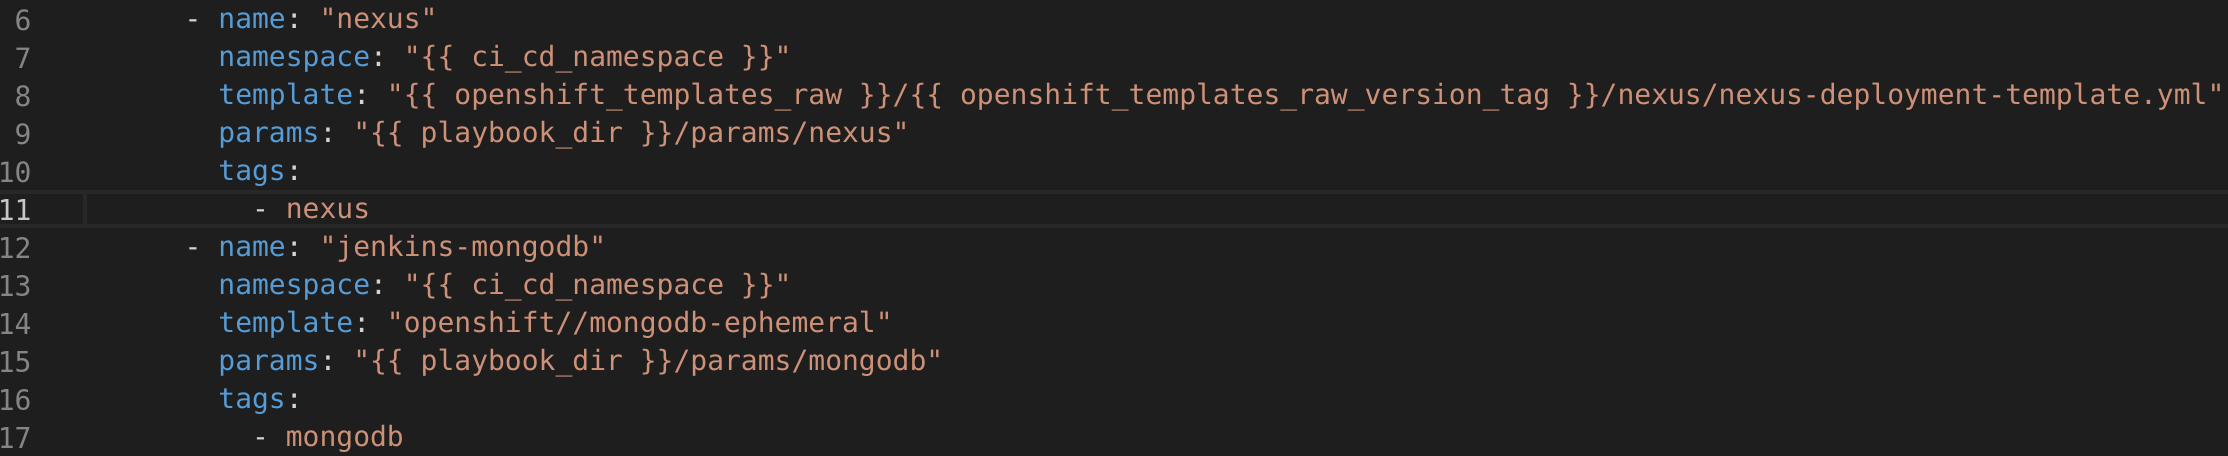
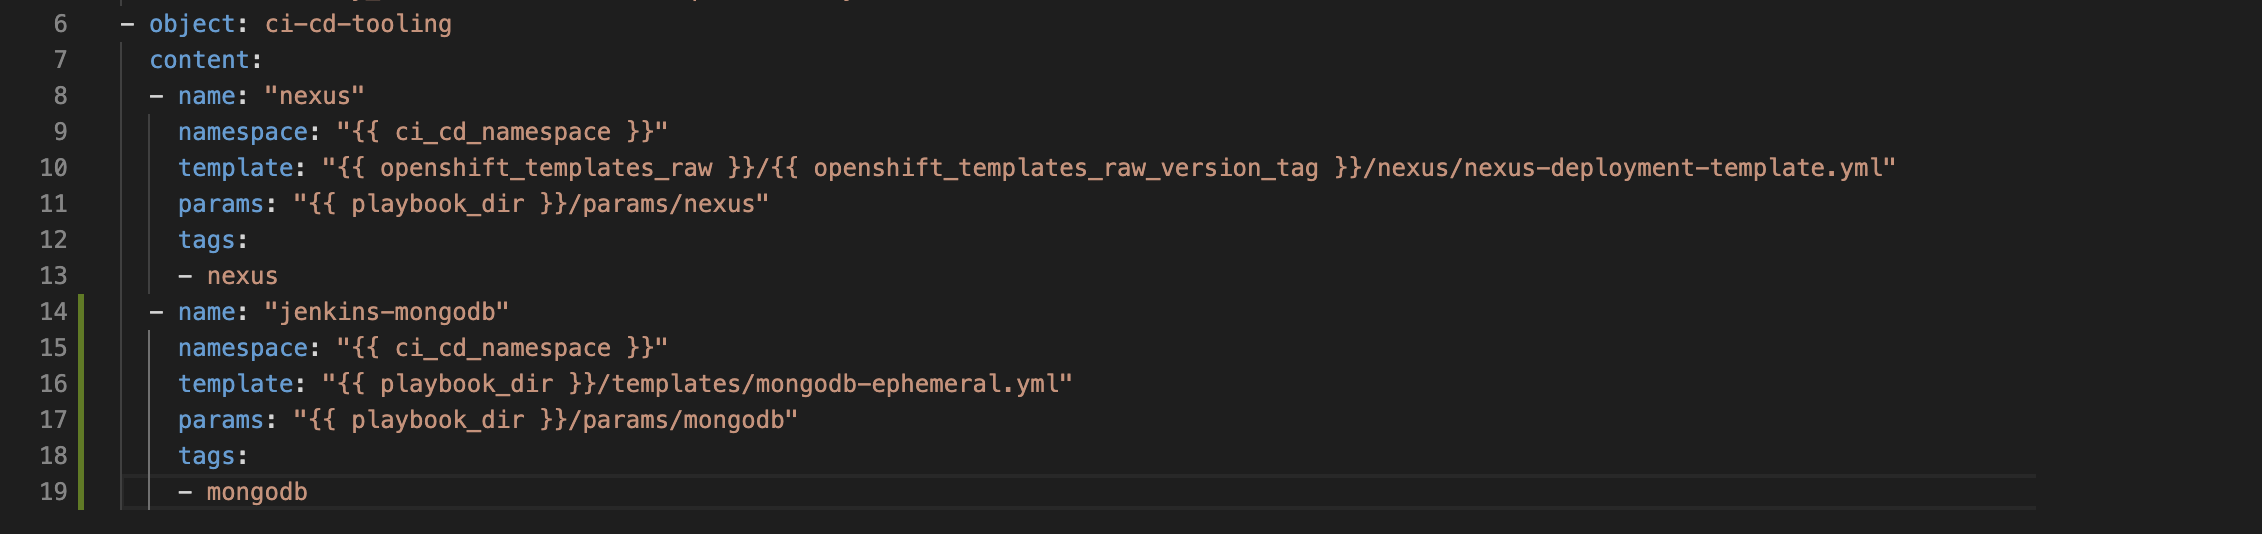
updated

diff --git a/1-the-manual-menace/README.md b/1-the-manual-menace/README.md
@@ -338,7 +338,7 @@ Select the banner and use the same password you logged into OpenShift as your lo
 ```yaml
   - name: "jenkins-mongodb"
     namespace: "{{ ci_cd_namespace }}"
-    template: "openshift//mongodb-ephemeral"
+    template: "{{ playbook_dir }}/templates/mongodb-ephemeral.yml"
     params: "{{ playbook_dir }}/params/mongodb"
     tags:
     - mongodb
@@ -372,6 +372,10 @@ ansible-playbook apply.yml -e target=tools \
 > _Create a build and deployment config for Jenkins. Add new configuration and plugins to the OpenShift default Jenkins image using s2i_
 
 1. As before; create a new set of params by creating a `params/jenkins` file and adding some overrides to the template and updating the `<YOUR_NAME>` value accordingly.
+
+```bash
+touch params/jenkins
+```
 
 <kbd>📝 *enablement-ci-cd/params/jenkins*</kbd>
 ```
@@ -428,41 +432,33 @@ jenkins-s2i
  * `build-failure-analyzer.xml` is config for the plugin to read the logs and look for key items based on a Regex. More on this in later lessons.
  * `init.groovy` contains a collection of settings jenkins configures itself with when launching
 
-4. Let's add a plugin for Jenkins to be started with, [green-balls](https://plugins.jenkins.io/greenballs). This simply changes the default `SUCCESS` status of Jenkins from Blue to Green. Append the `jenkins-s2i/plugins.txt` file with
+4. Let's add a plugin for Jenkins to be started with, [Slack](https://plugins.jenkins.io/slack/). This plugin adds support to integrate Jenkins with Slack (we may not actually use this plugin in the lab, but we've added it as an extension task if time permits). Append the `jenkins-s2i/plugins.txt` file with
 ```txt
-greenballs:1.15
+slack:2.37
 ```
-![green-balls.png](../images/exercise1/green-balls.png)
+![slack.png](../images/exercise1/slack.png)
 
-Why does Jenkins use blue to represent success? More can be found [on reddit](https://www.reddit.com/r/programming/comments/4lu6q8/why_does_jenkins_have_blue_balls/) or the [Jenkins blog](https://jenkins.io/blog/2012/03/13/why-does-jenkins-have-blue-balls/).
 
-5. Before building and deploying the Jenkins s2i; add your git credentials to it. These will be used by Jenkins to access the Git Repositories where our apps will be stored. We want Jenkins to be able to push tags to it, so write access is required. Create `params/jenkins-s2i-secret` and add the following content; replacing variables as appropriate. There is an annotation on the secret which binds the credential in Jenkins
+5. Create `params/jenkins-s2i` and add the following content; replacing variables as appropriate. These parameters will be applied to the `templates/jenkins-s2i-build-template-with-secret.yml` below in step 8, which will create the imagestream and buildconfig needed for our Jenkins image. Additionally, it will also create the `git-auth` secret in Openshift that will have your username and password crendentials for GitLab. There is an annotation on the secret which binds the credential in Jenkins (`credential.sync.jenkins.openshift.io: "true"`).
 
-<kbd>📝 *enablement-ci-cd/params/jenkins-s2i-secret*</kbd>
+```bash
+touch params/jenkins-s2i
 ```
-SECRET_NAME=gitlab-auth
-USERNAME=<YOUR_LDAP_USERNAME>
-PASSWORD=<YOUR_LDAP_PASSWORD>
-```
-where
-    * `<YOUR_LDAP_USERNAME>` is the username builder pod will use to login and clone the repo with
-    * `<YOUR_LDAP_PASSWORD>` is the password the builder pod will use to authenticate and clone the repo using
-
-
-6. Create `params/jenkins-s2i` and add the following content; replacing variables as appropriate.
 
 <kbd>📝 *enablement-ci-cd/params/jenkins-s2i*</kbd>
 ```
 SOURCE_REPOSITORY_URL=<GIT_URL>
 NAME=jenkins
 SOURCE_REPOSITORY_CONTEXT_DIR=jenkins-s2i
-SOURCE_REPOSITORY_SECRET=gitlab-auth
+SOURCE_REPOSITORY_PASSWORD=<YOUR_LDAP_PASSWORD>
+SOURCE_REPOSITORY_USERNAME=<YOUR_LDAP_USERNAME>
 ```
 where
     * `<GIT_URL>` is the full clone path of the repo where this project is stored (including the https && .git)
+    * `<YOUR_LDAP_USERNAME>` is the username builder pod will use to login and clone the repo with
+    * `<YOUR_LDAP_PASSWORD>` is the password the builder pod will use to authenticate and clone the repo using
 
-
-7. At the top of `inventory/host_vars/ci-cd-tooling.yml` file underneath the `---`, add the following:
+6. At the top of `inventory/host_vars/ci-cd-tooling.yml` file underneath the `---`, add the following:
 
 <kbd>📝 *enablement-ci-cd/inventory/host_vars/ci-cd-tooling.yml*</kbd>
 ```yaml
@@ -470,7 +466,7 @@ ci_cd:
   IMAGE_STREAM_NAMESPACE: "{{ ci_cd_namespace }}"
 ```
 
-8. Create a new object `ci-cd-builds` in the Ansible `inventory/host_vars/ci-cd-tooling.yml` to drive the s2i build configuration.
+7. Create a new object `ci-cd-builds` in the Ansible `inventory/host_vars/ci-cd-tooling.yml` to drive the s2i build configuration.
 
 <p class="tip">
 ⚡ <b>NOTE</b> ⚡ - We are using a custom jenkins template that works with latest version of OpenShift until the changes can be merged upstream.
@@ -480,22 +476,16 @@ ci_cd:
 ```yaml
 - object: ci-cd-builds
   content:
-  - name: "jenkins-s2i-secret"
-    namespace: "{{ ci_cd_namespace }}"
-    template: "{{ openshift_templates_raw }}/{{ openshift_templates_raw_version_tag }}/secrets/secret-user-pass-basic-auth.yml"
-    params: "{{ playbook_dir }}/params/jenkins-s2i-secret"
-    tags:
-    - jenkins
   - name: "jenkins-s2i"
     namespace: "{{ ci_cd_namespace }}"
-    template: "{{ openshift_templates_raw }}/{{ openshift_templates_raw_version_tag }}/jenkins-s2i-build/jenkins-s2i-build-template-with-secret.yml"
+    template: "{{ playbook_dir }}/templates/jenkins-s2i-build-template-with-secret.yml"
     params: "{{ playbook_dir }}/params/jenkins-s2i"
     params_from_vars: "{{ ci_cd }}"
     tags:
     - jenkins
 ```
 
-9. Commit your code to your GitLab instance
+8. Commit your code to your GitLab instance
 ```bash
 git add .
 ```
@@ -506,17 +496,17 @@ git commit -m "Adding Jenkins and Jenkins s2i"
 git push
 ```
 
-10. Now your code is commited; run the OpenShift Applier to add the config to the cluster
+9. Now your code is commited; run the OpenShift Applier to add the config to the cluster
 ```bash
 ansible-playbook apply.yml -e target=tools \
      -i inventory/ \
      -e "filter_tags=jenkins"
 ```
 
-11. This will trigger a build of the s2i and when it's complete it will add an imagestream of `<YOUR_NAME>-ci-cd/jenkins:latest` to the project. The Deployment config should kick in and deploy the image once it arrives. You can follow the build of the s2i by going to the OpenShift console's project
+10. This will trigger a build of the s2i and when it's complete it will add an imagestream of `<YOUR_NAME>-ci-cd/jenkins:latest` to the project. The Deployment config should kick in and deploy the image once it arrives. You can follow the build of the s2i by going to the OpenShift console's project
 ![jenkins-s2i-log](../images/exercise1/jenkins-s2i-log.png)
 
-12. When the Jenkins deployment has completed; login (using your OpenShift credentials) and accept the role permissions. You should now see a fairly empty Jenkins with just the seed job
+11. When the Jenkins deployment has completed; login (using your OpenShift credentials) and accept the role permissions. You should now see a fairly empty Jenkins with just the seed job
 
 ### Part 7 - Jenkins Hello World
 > _To test things are working end-to-end; create a hello world job that doesn't do much but proves we can pull code from git and that our builds are green._
@@ -530,7 +520,7 @@ ansible-playbook apply.yml -e target=tools \
 
 4. On the build tab add an Execute Shell step and fill it with `echo "Hello World"` ![jenkins-hello-world](../images/exercise1/jenkins-hello-world.png).
 
-5. Run the build and we should see it pass successfully and with a Green ball! ![jenkins-green-balls](../images/exercise1/jenkins-green-balls.png)
+5. Run the build and we should see it pass successfully! ![jenkins-green-balls](../images/exercise1/jenkins-green-balls.png)
 
 ### Part 8 - Live, Die, Repeat
 > _In this section you will prove the infra as code is working by deleting your Cluster Content and recreating it all_
